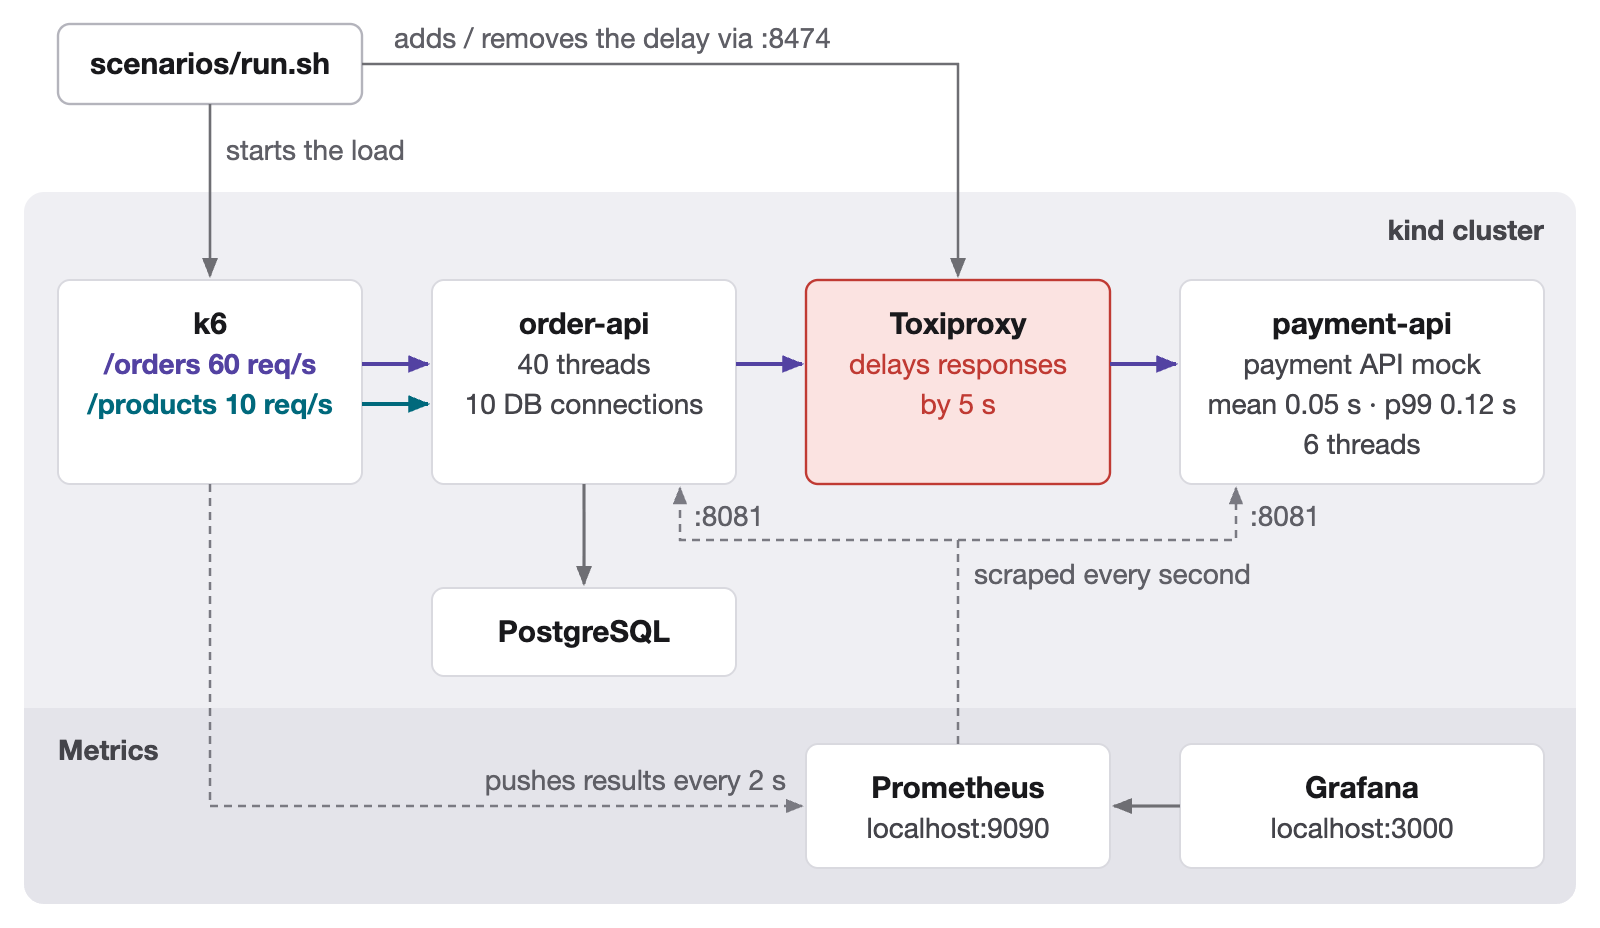
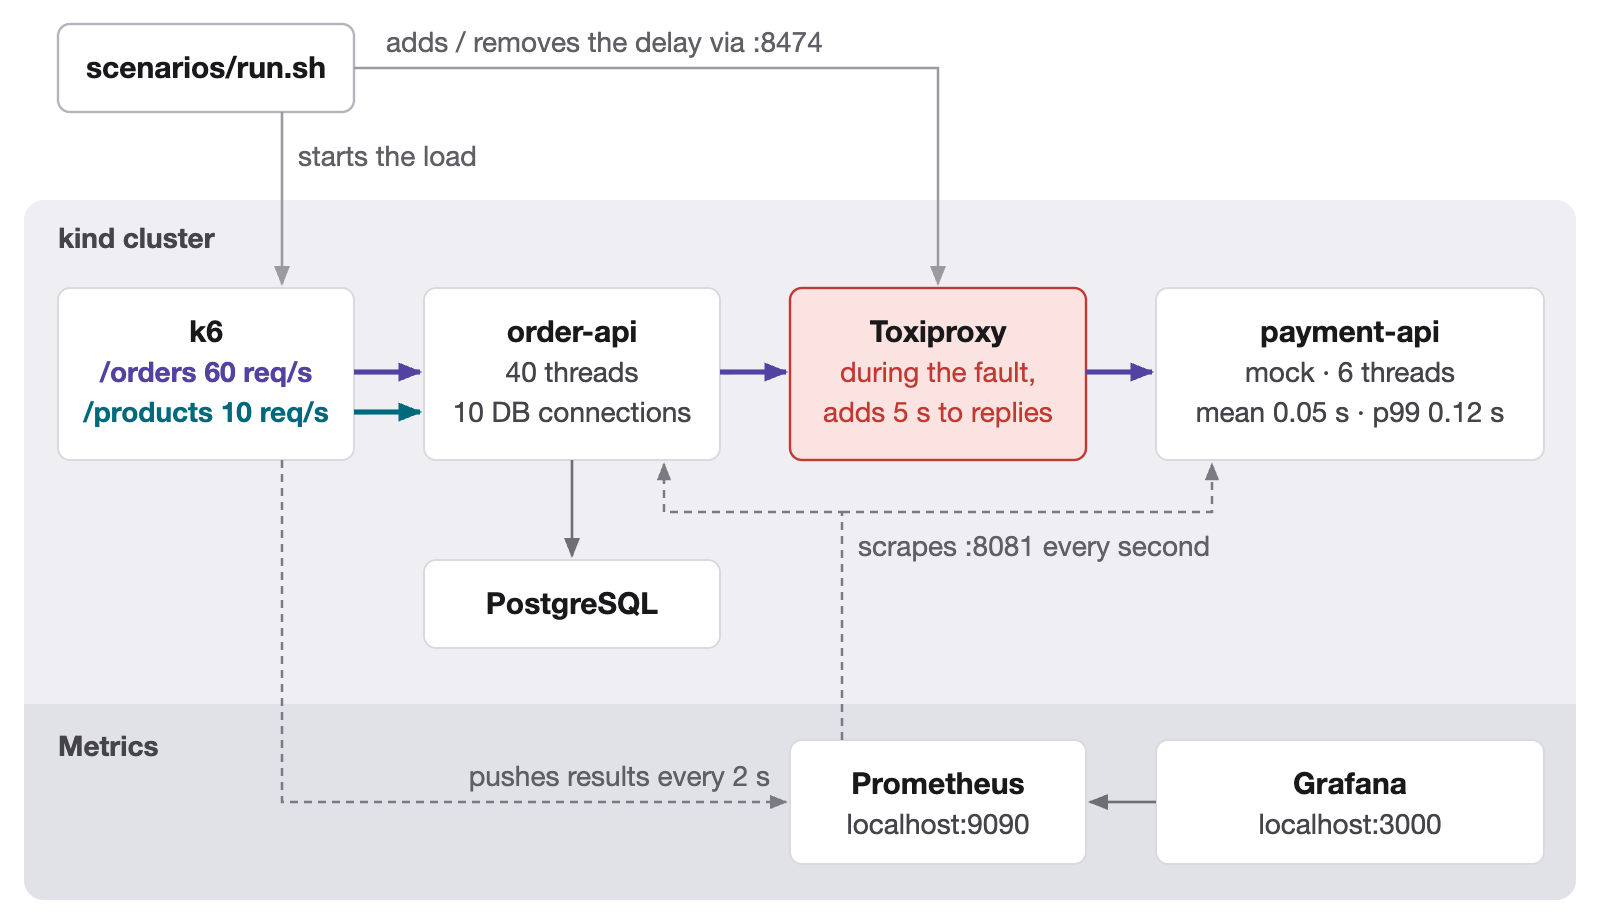
Architecture figure: even three-line cards, one scrape note, headings top-left
From the second aesthetic review: all top cards at three lines and one
height, the two :8081 notes merged into the scrape note, both headings at
the top left, a fixed vertical rhythm, the scrape trunk moved off
Toxiproxy's axis, thicker request lines and lighter control lines.

diff --git a/tools/diagrams/architecture.html b/tools/diagrams/architecture.html
@@ -6,14 +6,14 @@
 <link rel="stylesheet" href="explainer.css">
 </head>
 <body>
-<!-- kind クラスタを薄い灰の面に、部品を同じ高さの白いカードで描く（ほかの図と同じく、線ではなく面で区切る）。4 列の格子：幅 152・152・152・182、間 35。上段は要求の経路、その下に DB、一番下の帯が観測。線は 3 種類：要求（色つき 2px）、操作（灰の細線）、メトリクス（点線）。k6 の色つきの行から同じ色の線を出し、紫（/orders）だけが決済 API まで続く -->
+<!-- kind クラスタを薄い灰の面に、部品を同じ高さの白いカードで描く（ほかの図と同じく、線ではなく面で区切る）。4 列の格子：幅 148・148・148・194、間 35。上段は要求の経路、その下に DB、一番下の帯が観測。線は 3 種類：要求（色つきの太線。主役）、操作（薄い灰の細線）、メトリクス（点線）。k6 の色つきの行から同じ色の線を出し、紫（/orders）だけが決済 API まで続く -->
 <svg id="fig" xmlns="http://www.w3.org/2000/svg"></svg>
 <script src="explainer.js"></script>
 <script>
   const svg = document.getElementById('fig');
   // 矢じりは線の太さによらず同じ大きさにする
   const d = el(svg, 'defs');
-  for (const [id, c, size] of [['h-gray', '#6e6e73', 10], ['h-ord', '#5342a2', 11], ['h-prd', '#00697c', 11], ['h-met', '#7a7a82', 9]]) {
+  for (const [id, c, size] of [['h-gray', '#6e6e73', 10], ['h-ctl', '#9a9aa2', 10], ['h-ord', '#5342a2', 12], ['h-prd', '#00697c', 12], ['h-met', '#7a7a82', 9]]) {
     const m = el(d, 'marker', { id, viewBox: '0 0 10 10', refX: 9, refY: 5, markerWidth: size, markerHeight: size, markerUnits: 'userSpaceOnUse', orient: 'auto' });
     el(m, 'path', { d: 'M0 1L10 5L0 9z', fill: c });
   }
@@ -25,67 +25,65 @@
     return { x, y, w, h, cx: x + w / 2, cy: y + h / 2, r: x + w, b: y + h };
   }
 
-  // 格子
-  const X0 = 29, G = 35, W = [152, 152, 152, 182];
+  // 格子：幅 148・148・148・194、間 35。上段のカードは 3 行で高さをそろえる
+  const X0 = 29, G = 35, W = [148, 148, 148, 194];
   const cx = [X0];
   for (let i = 1; i < 4; i++) cx.push(cx[i - 1] + W[i - 1] + G);
-  const PX = 12, PY = 96, PW = 776, PH = 356;
+  const PX = 12, PY = 100, PW = 776;
 
+  const Y1 = PY + 44, H1 = 86, CH = Y1 + H1 + 26, DBY = CH + 24, BY = DBY + 44 + 28, Y3 = BY + 18, H3 = 62, PH = Y3 + H3 + 18 - PY;
   // クラスタ（面）。カードより先に描く
   el(svg, 'rect', { class: 'pool', x: PX, y: PY, width: PW, height: PH, rx: 10 });
-  // run.sh からの矢印と交わらないよう、見出しは右上に置く
-  text(svg, PX + PW - 16, PY + 24, 'small b end', tr('kind クラスタ', 'kind cluster'));
+  // 見出しは 2 つとも左上。run.sh からの矢印は k6 の右寄り（kx）に入れて、見出しと交わらないようにする
+  text(svg, X0, PY + 24, 'small b', tr('kind クラスタ', 'kind cluster'));
 
   // 観測の帯（面の下の端まで、一段濃く）
-  const BY = 354, r = 10, B = PY + PH;
-  el(svg, 'path', { d: `M${PX} ${BY} H${PX + PW} V${B - r} A${r} ${r} 0 0 1 ${PX + PW - r} ${B} H${PX + r} A${r} ${r} 0 0 1 ${PX} ${B - r} Z`, fill: '#e4e4ea' });
+  const r = 10, B = PY + PH;
+  el(svg, 'path', { d: `M${PX} ${BY} H${PX + PW} V${B - r} A${r} ${r} 0 0 1 ${PX + PW - r} ${B} H${PX + r} A${r} ${r} 0 0 1 ${PX} ${B - r} Z`, fill: '#e1e1e8' });
   text(svg, X0, BY + 26, 'small b', tr('観測', 'Metrics'));
 
   // クラスタの外：run.sh（k6 の真上）
-  const host = { x: X0, y: 12, w: W[0], h: 40 };
+  const host = { x: X0, y: 12, w: W[0], h: 44 };
   host.r = host.x + host.w; host.b = host.y + host.h; host.cy = host.y + host.h / 2;
   el(svg, 'rect', { x: host.x, y: host.y, width: host.w, height: host.h, rx: 6, fill: '#ffffff', stroke: '#b4b4bc', 'stroke-width': 1.2 });
-  text(svg, host.x + host.w / 2, host.y + 25, 'name mid', 'scenarios/run.sh');
+  text(svg, host.x + host.w / 2, host.y + 27, 'name mid', 'scenarios/run.sh');
 
   // 上段：要求の経路
-  const Y1 = 140, H1 = 102;
   const k6 = card(cx[0], Y1, W[0], H1, [['name', 'k6'], ['small ord b', tr('/orders 60 件/秒', '/orders 60 req/s')], ['small prd b', tr('/products 10 件/秒', '/products 10 req/s')]]);
   const order = card(cx[1], Y1, W[1], H1, [['name', 'order-api'], ['small', tr('スレッド 40 本', '40 threads')], ['small', tr('コネクション 10 本', '10 DB connections')]]);
-  const toxi = card(cx[2], Y1, W[2], H1, [['name', 'Toxiproxy'], ['small bad', tr('障害中は応答を', 'delays responses')], ['small bad', tr('5 秒遅らせる', 'by 5 s')]], { stroke: '#c03a33', width: 1.2, fill: '#fbe3e1' });
-  const pay = card(cx[3], Y1, W[3], H1, [['name', 'payment-api'], ['small', tr('決済 API のモック', 'payment API mock')], ['small', tr('平均 0.05 秒・p99 0.12 秒', 'mean 0.05 s · p99 0.12 s')], ['small', tr('スレッド 6 本', '6 threads')]]);
+  const toxi = card(cx[2], Y1, W[2], H1, [['name', 'Toxiproxy'], ['small bad', tr('障害中は応答を', 'during the fault,')], ['small bad', tr('5 秒遅らせる', 'adds 5 s to replies')]], { stroke: '#c03a33', width: 1.2, fill: '#fbe3e1' });
+  const pay = card(cx[3], Y1, W[3], H1, [['name', 'payment-api'], ['small', tr('モック・スレッド 6 本', 'mock · 6 threads')], ['small', tr('平均 0.05 秒・p99 0.12 秒', 'mean 0.05 s · p99 0.12 s')]]);
 
   // 要求：k6 の色つきの行から、その色の線を出す。紫（/orders）だけが決済 API まで続く
   const yo = Y1 + 27 + 20 - 5, yp = yo + 20;
-  el(svg, 'line', { class: 'ln ord req', x1: k6.r, y1: yo, x2: order.x - 2, y2: yo, 'marker-end': 'url(#h-ord)' });
-  el(svg, 'line', { class: 'ln prd req', x1: k6.r, y1: yp, x2: order.x - 2, y2: yp, 'marker-end': 'url(#h-prd)' });
-  el(svg, 'line', { class: 'ln ord req', x1: order.r, y1: yo, x2: toxi.x - 2, y2: yo, 'marker-end': 'url(#h-ord)' });
-  el(svg, 'line', { class: 'ln ord req', x1: toxi.r, y1: yo, x2: pay.x - 2, y2: yo, 'marker-end': 'url(#h-ord)' });
+  el(svg, 'line', { class: 'ln ord req main', x1: k6.r, y1: yo, x2: order.x - 2, y2: yo, 'marker-end': 'url(#h-ord)' });
+  el(svg, 'line', { class: 'ln prd req main', x1: k6.r, y1: yp, x2: order.x - 2, y2: yp, 'marker-end': 'url(#h-prd)' });
+  el(svg, 'line', { class: 'ln ord req main', x1: order.r, y1: yo, x2: toxi.x - 2, y2: yo, 'marker-end': 'url(#h-ord)' });
+  el(svg, 'line', { class: 'ln ord req main', x1: toxi.r, y1: yo, x2: pay.x - 2, y2: yo, 'marker-end': 'url(#h-ord)' });
 
   // DB（order-api の真下）
-  const CH = 270;
-  const db = card(cx[1], CH + 24, W[1], 44, [['name', 'PostgreSQL']]);
-  el(svg, 'line', { class: 'ln', x1: order.cx, y1: order.b, x2: order.cx, y2: db.y - 2, 'marker-end': 'url(#h-gray)' });
+  const db = card(cx[1], DBY, W[1], 44, [['name', 'PostgreSQL']]);
+  el(svg, 'line', { class: 'ln thin', x1: order.cx, y1: order.b, x2: order.cx, y2: db.y - 2, 'marker-end': 'url(#h-gray)' });
 
   // 観測：Prometheus と Grafana（Grafana が Prometheus に問い合わせる）
-  const Y3 = BY + 18, H3 = 62;
   const prom = card(cx[2], Y3, W[2], H3, [['name', 'Prometheus'], ['small', 'localhost:9090']]);
   const graf = card(cx[3], Y3, W[3], H3, [['name', 'Grafana'], ['small', 'localhost:3000']]);
-  el(svg, 'line', { class: 'ln', x1: graf.x, y1: prom.cy, x2: prom.r + 2, y2: prom.cy, 'marker-end': 'url(#h-gray)' });
+  el(svg, 'line', { class: 'ln thin', x1: graf.x, y1: prom.cy, x2: prom.r + 2, y2: prom.cy, 'marker-end': 'url(#h-gray)' });
 
   // メトリクス：Prometheus から 1 本出て T 字に分かれ、order-api と payment-api の 8081 番を取りに行く。k6 は自分から送る
-  const dl = order.r - 28, dr = pay.x + 28;
-  el(svg, 'path', { class: 'ln met', d: `M${prom.cx} ${prom.y} V${CH} H${dl} V${order.b + 2}`, 'marker-end': 'url(#h-met)' });
-  el(svg, 'path', { class: 'ln met', d: `M${prom.cx} ${CH} H${dr} V${pay.b + 2}`, 'marker-end': 'url(#h-met)' });
-  text(svg, dl + 7, order.b + 21, 'note', ':8081');
-  text(svg, dr + 7, pay.b + 21, 'note', ':8081');
-  text(svg, prom.cx + 8, CH + 22, 'note', tr('1 秒ごとに取りに行く', 'scraped every second'));
-  el(svg, 'path', { class: 'ln met', d: `M${k6.cx} ${k6.b} V${prom.cy} H${prom.x - 2}`, 'marker-end': 'url(#h-met)' });
+  // 幹は Toxiproxy の中心から外す（中心に通すと、run.sh → Toxiproxy の線と 1 本の軸に見え、Toxiproxy を監視しているように読める）
+  const dl = order.r - 28, dr = pay.x + 28, tx = prom.x + 26;
+  el(svg, 'path', { class: 'ln met', d: `M${tx} ${prom.y} V${CH} H${dl} V${order.b + 2}`, 'marker-end': 'url(#h-met)' });
+  el(svg, 'path', { class: 'ln met', d: `M${tx} ${CH} H${dr} V${pay.b + 2}`, 'marker-end': 'url(#h-met)' });
+  text(svg, tx + 8, CH + 22, 'note', tr('1 秒ごとに :8081 を取りに行く', 'scrapes :8081 every second'));
+  const kx = k6.r - 36;
+  el(svg, 'path', { class: 'ln met', d: `M${kx} ${k6.b} V${prom.cy} H${prom.x - 2}`, 'marker-end': 'url(#h-met)' });
   text(svg, prom.x - 10, prom.cy - 8, 'note end', tr('結果を 2 秒ごとに送る', 'pushes results every 2 s'));
 
   // run.sh からの操作
-  el(svg, 'line', { class: 'ln thin', x1: k6.cx, y1: host.b, x2: k6.cx, y2: k6.y - 2, 'marker-end': 'url(#h-gray)' });
-  text(svg, k6.cx + 8, 80, 'note', tr('負荷を開始', 'starts the load'));
-  el(svg, 'path', { class: 'ln thin', d: `M${host.r} ${host.cy} H${toxi.cx} V${toxi.y - 2}`, 'marker-end': 'url(#h-gray)' });
+  el(svg, 'line', { class: 'ln thin ctl', x1: kx, y1: host.b, x2: kx, y2: k6.y - 2, 'marker-end': 'url(#h-ctl)' });
+  text(svg, kx + 8, (host.b + PY) / 2 + 5, 'note', tr('負荷を開始', 'starts the load'));
+  el(svg, 'path', { class: 'ln thin ctl', d: `M${host.r} ${host.cy} H${toxi.cx} V${toxi.y - 2}`, 'marker-end': 'url(#h-ctl)' });
   text(svg, host.r + 16, host.cy - 8, 'note', tr(':8474 で遅延を入れる・外す', 'adds / removes the delay via :8474'));
 
   canvas(svg, 800, PY + PH + 12);

diff --git a/tools/diagrams/explainer.css b/tools/diagrams/explainer.css
@@ -50,4 +50,6 @@ svg {
 .scope { fill: none; stroke: #8a8a92; stroke-width: 1.4; stroke-dasharray: 7 5; }
 .note { font-size: 14px; fill: #5f5f66; }
 .ln.req { stroke-width: 2; }
+.ln.ctl { stroke: #9a9aa2; }
+.ln.req.main { stroke-width: 2.6; }
 .ln.met { stroke: #7a7a82; stroke-width: 1.3; stroke-dasharray: 4 3; }
